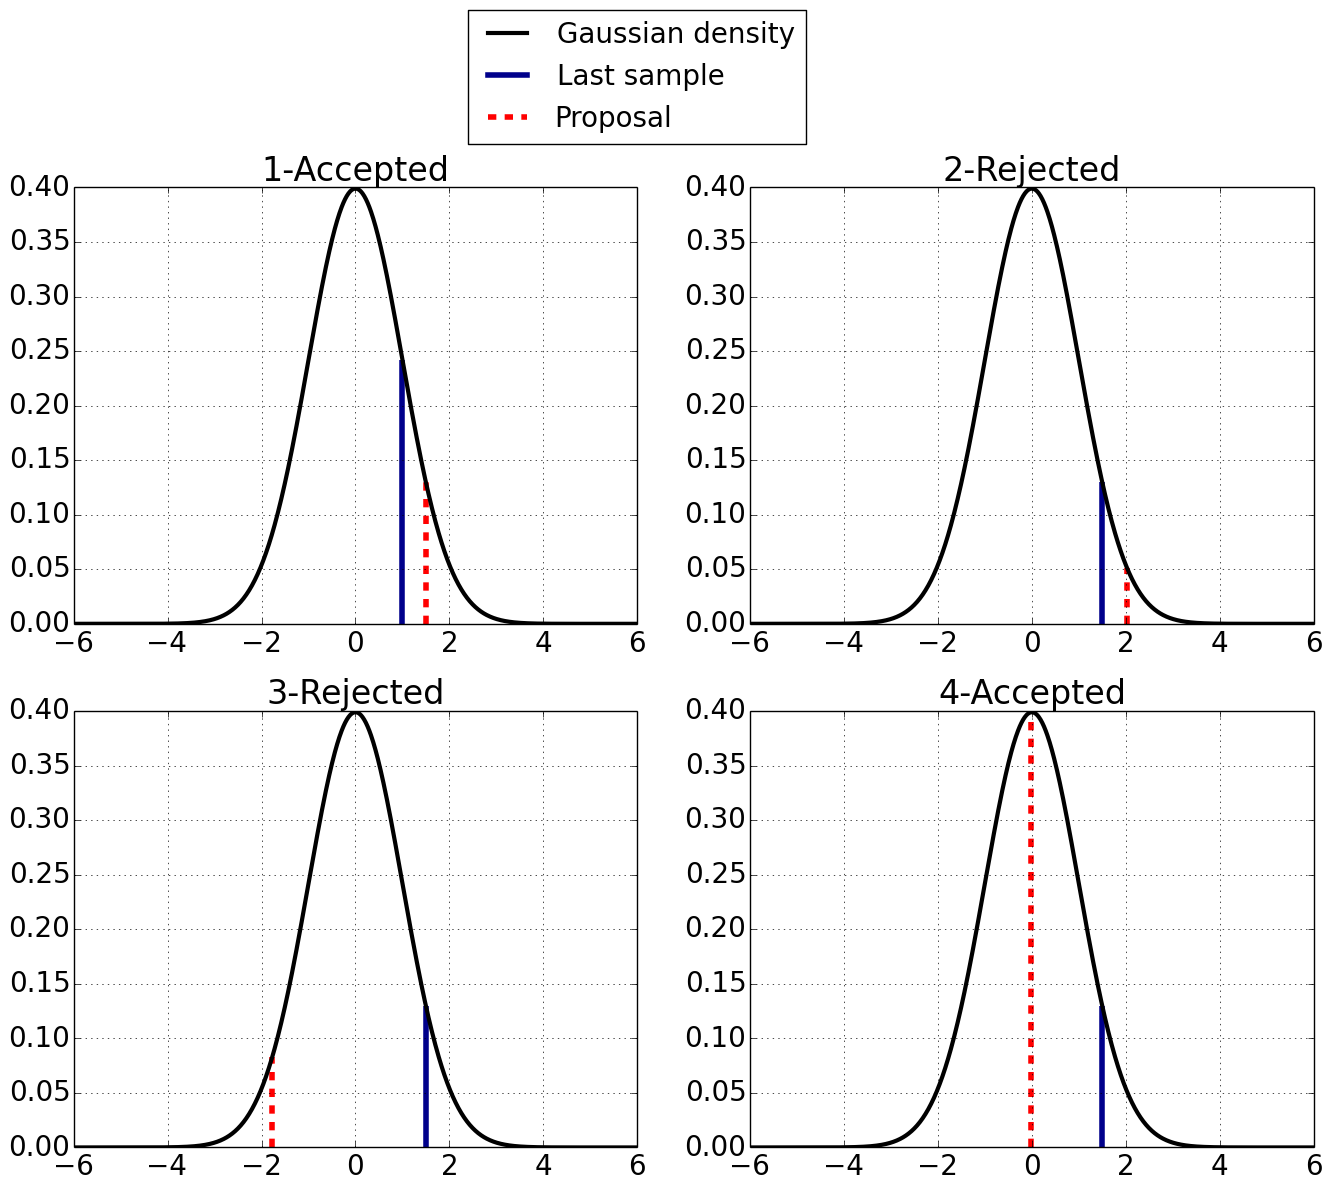
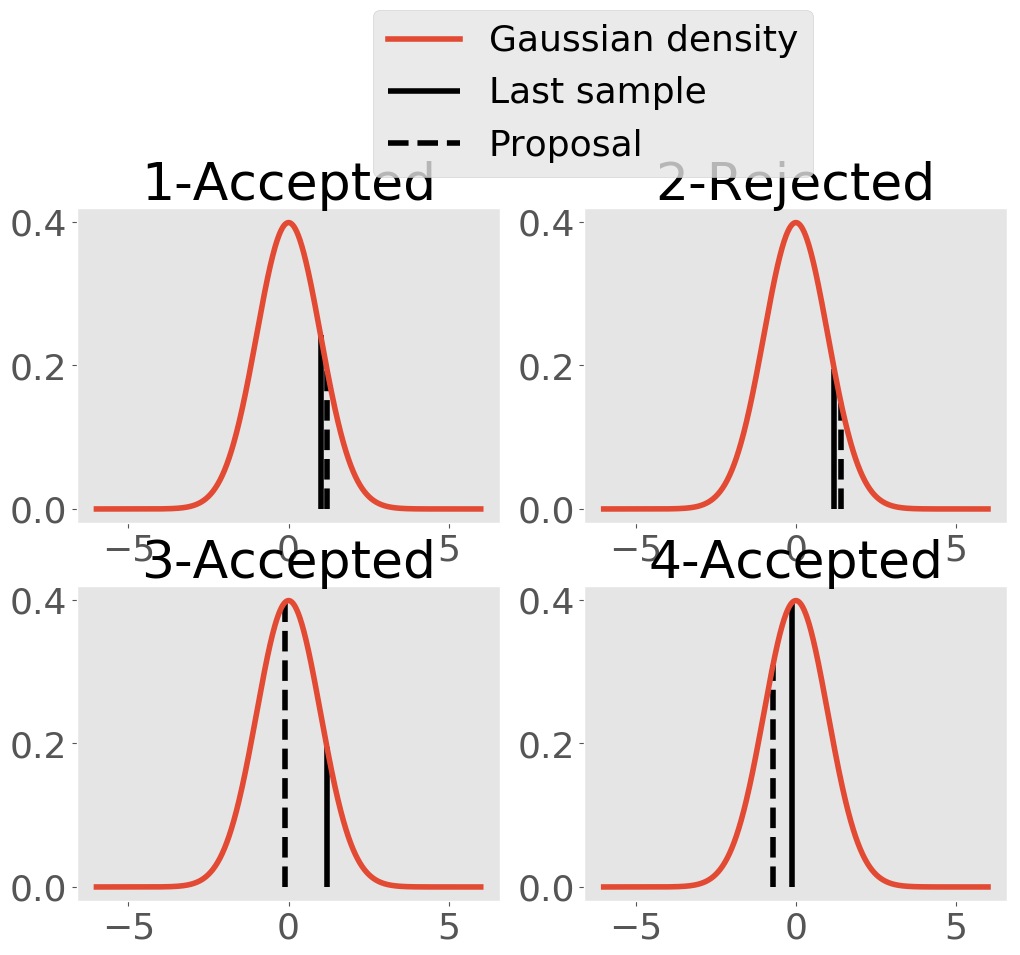
cleaned up example scripts for thesis

diff --git a/mcmcBasic/mixingTimesPropWidth.py b/mcmcBasic/mixingTimesPropWidth.py
@@ -3,12 +3,13 @@
 # DESCRIPTION: set up a toy example for mcmc sampling and approximate with Metropolis sampler
 # AUTHOR: NK
 
+import matplotlib
 import matplotlib.pyplot as plt
 plt.style.use('ggplot')
+
 import numpy as np 
 from scipy.stats import norm
 np.set_printoptions(precision = 1)
-
 plt.rcParams.update({'font.size': 26})
 plt.rcParams['lines.linewidth'] = 4
 plt.rcParams["figure.figsize"] = (12,9)
@@ -19,44 +20,15 @@ np.random.seed(15051994)
 def gaussDens(pt, mean = 0, variance = 1.):
 	return np.exp(-(pt-mean)**2/(2*variance))/(np.sqrt(2*np.pi*variance))
 
-propWidth = 2.
+propWidth = 1.
 numPlots = 4
-numSamp = 20000
-samples = np.zeros(numSamp)
-currSamp = 1.0
+numSamp = 250
+samplesSmall = np.zeros(numSamp)
+currSamp = 0.5
 i = 0
-samples[i] = currSamp
+samplesSmall[i] = currSamp
 
 i = i + 1
-
-plotPts = np.linspace(-6, 6, 1000)
-plotVals = gaussDens(plotPts)
-
-plt.subplots(2,2)
-while i < numPlots + 1:
-	pltIdx = 220 + i
-	plt.subplot(pltIdx)
-	proposal =  currSamp + propWidth * np.random.randn()
-	plt.plot(plotPts, plotVals, label="Gaussian density")
-	plt.vlines(currSamp, 0, gaussDens(currSamp), label = "Last sample")
-	plt.vlines(proposal, 0, gaussDens(proposal), linestyle = "dashed", label ="Proposal")
-	accProb = gaussDens(proposal)/gaussDens(currSamp)
-	ratio = np.random.rand()
-	if accProb < ratio:
-		samples[i] = currSamp
-		plt.title("%i-Rejected"%(i))
-	else:
-		samples[i] = proposal
-		currSamp = proposal
-		plt.title("%i-Accepted"%(i))
-	i = i + 1
-	plt.grid()
-
-lgd = plt.legend(loc=(-0.5, 2.3), borderaxespad=0.)
-plt.savefig("figures/mcmcSamples", bbox_extra_artists=(lgd,), bbox_inches='tight')
-plt.show()
-
-
 
 
 
@@ -65,34 +37,51 @@ while i < numSamp:
 	accProb = gaussDens(proposal)/gaussDens(currSamp)
 	ratio = np.random.rand()
 	if accProb < ratio:
-		samples[i] = currSamp
+		samplesSmall[i] = currSamp
 	else:
-		samples[i] = proposal
+		samplesSmall[i] = proposal
 		currSamp = proposal
 	i = i + 1
 
 
 
 
+propWidth = 1.
+numPlots = 4
+numSamp = 250
+samplesBig = np.zeros(numSamp)
+currSamp = 12.0
+i = 0
+samplesBig[i] = currSamp
+
+i = i + 1
+
+
+
+while i < numSamp:
+	proposal =  currSamp + propWidth * np.random.randn()
+	accProb = gaussDens(proposal)/gaussDens(currSamp)
+	ratio = np.random.rand()
+	if accProb < ratio:
+		samplesBig[i] = currSamp
+	else:
+		samplesBig[i] = proposal
+		currSamp = proposal
+	i = i + 1
 
 
 
 
-
-
-
-
-
-plotPts = np.linspace(-6, 6, 1000)
-plotVals = gaussDens(plotPts)
 plt.figure()
-plt.plot(plotPts, plotVals, label ="Gaussian density")
+plt.plot(samplesSmall, linewidth = 3, label ="Starting at $x_0 = 0.5$")
+plt.plot(samplesBig, linewidth = 3,  label ="Starting at $x_0 = 12.0$")
 plt.grid()
-plt.hist(samples, bins = 50, density = 1, label ="MCMC samples")
+xl = plt.xlabel("Iteration")
+yl = plt.ylabel("Samples")
+plt.ylim((-5,15))
+plt.grid()
 plt.legend()
-plt.grid()
-plt.ylim((0,0.6))
-plt.savefig("figures/histMCMC")
+plt.savefig("figures/burnIn", bbox_extra_artists= (xl, ), bbox_inches ="tight")
 plt.show()
 
 

diff --git a/1dExampleBip/discrMeanMap.py b/1dExampleBip/discrMeanMap.py
@@ -1,0 +1,103 @@
+# NAME: 'discrMeanMap.py'
+#
+# PURPOSE: Visualise discrepancy between conditional mean and MAP in 1D example
+
+# DESCRIPTION: We derive the post. distribution and compute CM and MAP
+#
+# AUTHOR: NK, kraemer(at)ins.uni-bonn.de
+
+from __future__ import division	
+import numpy as np
+import matplotlib.pyplot as plt 
+plt.style.use('ggplot')
+
+import sys
+sys.path.insert(0,'../modules/')
+
+from covFcts import maternCov
+from covMtrcs import buildCovMtrx
+from ptSetFcts import getPtsHalton
+from quadrForm import compQuadQMC
+
+np.random.seed(15051994)
+np.set_printoptions(precision = 1)
+plt.rcParams.update({'font.size': 26})
+plt.rcParams['lines.linewidth'] = 4
+plt.rcParams["figure.figsize"] = (12,9)
+
+def parToObsOperator(pt):
+	return  np.sin(0.1*pt)
+
+trueInput = -2
+noiseStdDev = 0.1
+obsNoise = noiseStdDev * np.random.randn()
+observation = parToObsOperator(trueInput) + obsNoise
+
+
+def evaluatePotential(pt, nOrmConst = 1., data = observation):
+	return np.exp(-1./(2.*noiseStdDev) * (data - parToObsOperator(pt))**2) / nOrmConst
+
+def gaussMixMdl(pt, mean = 2, variance = 0.5):
+	leftModel =  np.exp(-(pt+mean)**2/(2*variance))/(np.sqrt(2*np.pi*variance))
+	rightModel =  np.exp(-(pt-mean)**2/(2*variance))/(np.sqrt(2*np.pi*variance))
+	return leftModel + rightModel
+
+def evaluatePotentialGaussianPrior(pt, nOrmConst = 1., data = observation):
+	return evaluatePotential(pt) * gaussDens(pt)
+
+
+numPtsQmc = 10000
+ptSet = 20 * getPtsHalton(numPtsQmc, 1) - 10
+normConst = compQuadQMC(evaluatePotentialGaussianPrior, ptSet)
+
+
+plotPts = np.linspace(-10,10,500)
+likelihood = evaluatePotential(plotPts, normConst)
+priorVals = gaussDens(plotPts)
+posteriorVals = priorVals * likelihood
+
+
+def postDens(pt):
+	return evaluatePotential(pt, normConst) * gaussDens(pt)
+
+def postDensCM(pt):
+	return pt * evaluatePotential(pt, normConst) * gaussDens(pt)
+
+condMean = compQuadQMC(postDensCM, ptSet)
+mapPts = np.linspace(-10,10,10000)
+mapVals = postDens(mapPts)
+MAP = mapPts[np.argmax(mapVals)]
+
+
+
+
+
+plt.figure()
+plt.plot(plotPts, postVals, label = "Posterior density $\pi^y$")
+plt.plot(plotPts,  priorVals, label = "Prior density $\pi_0$")
+plt.vlines(trueInput, 0, gaussDens(trueInput) * evaluatePotential(trueInput, normConst), linestyle = "dashed")
+plt.xlabel("")
+plt.ylabel("")
+plt.legend()
+plt.grid()
+plt.savefig("figures/discrMeanMap_priorPostDens.png")
+plt.show()
+
+
+plt.figure()
+plt.plot(plotPts, postVals, label = "Posterior density")
+plt.vlines(condMean, 0, gaussDens(condMean) * evaluatePotential(condMean, normConst), linestyle = "dashed")
+plt.vlines(MAP, 0, gaussDens(MAP) * evaluatePotential(MAP, normConst), linestyle = "dashed")
+plt.xlabel("")
+plt.ylabel("")
+plt.legend()
+plt.grid()
+plt.savefig("figures/discrMeanMap_cmAndMap")
+plt.show()
+
+
+
+
+
+
+

diff --git a/mcmcBasic/burnInInitState.py b/mcmcBasic/burnInInitState.py
@@ -4,13 +4,15 @@
 # AUTHOR: NK
 
 import matplotlib
-import numpy as np 
 import matplotlib.pyplot as plt
 plt.style.use('ggplot')
+
+import numpy as np 
 from scipy.stats import norm
 np.set_printoptions(precision = 1)
-#plt.rcParams.update({'font.size': 20})
-#plt.rcParams.update({'legend.fontsize': 20})
+plt.rcParams.update({'font.size': 26})
+plt.rcParams['lines.linewidth'] = 4
+plt.rcParams["figure.figsize"] = (12,9)
 
 np.random.seed(15051994)
 
@@ -71,12 +73,13 @@ while i < numSamp:
 
 
 plt.figure()
-plt.plot(samplesSmall, linewidth = 3, color = "darkblue", label ="Starting at x = 0.5", alpha = 0.9)
-plt.plot(samplesBig, linewidth = 3, color = "red", label ="Starting at x = 12.0", alpha = 0.9)
+plt.plot(samplesSmall, linewidth = 3, label ="Starting at $x_0 = 0.5$")
+plt.plot(samplesBig, linewidth = 3,  label ="Starting at $x_0 = 12.0$")
 plt.grid()
 xl = plt.xlabel("Iteration")
 yl = plt.ylabel("Samples")
 plt.ylim((-5,15))
+plt.grid()
 plt.legend()
 plt.savefig("figures/burnIn", bbox_extra_artists= (xl, ), bbox_inches ="tight")
 plt.show()

diff --git a/1dExampleBip/plotPostPriorDist.py b/1dExampleBip/plotPostPriorDist.py
@@ -8,7 +8,8 @@
 
 from __future__ import division	
 import numpy as np
-import matplotlib.pyplot as plt 
+import matplotlib.pyplot as plt
+plt.style.use('ggplot')
 
 import sys
 sys.path.insert(0,'../modules/')
@@ -20,8 +21,9 @@ from quadrForm import compQuadQMC
 
 np.random.seed(15051994)
 np.set_printoptions(precision = 1)
-plt.rcParams.update({'font.size': 20})
-plt.rcParams.update({'legend.fontsize': 20})
+plt.rcParams.update({'font.size': 26})
+plt.rcParams['lines.linewidth'] = 4
+plt.rcParams["figure.figsize"] = (12,9)
 
 def parToObsOperator(pt):
 	return np.sin(pt)

diff --git a/mcmcBasic/histPlot.py b/mcmcBasic/histPlot.py
@@ -3,6 +3,7 @@
 # DESCRIPTION: set up a toy example for mcmc sampling and approximate with Metropolis sampler
 # AUTHOR: NK
 
+import matplotlib
 import matplotlib.pyplot as plt
 plt.style.use('ggplot')
 import numpy as np 

diff --git a/mcmcBasic/rejectSampling.py b/mcmcBasic/rejectSampling.py
@@ -3,6 +3,7 @@
 # DESCRIPTION: set up a toy example for mcmc sampling and approximate with Metropolis sampler
 # AUTHOR: NK
 
+import matplotlib
 import matplotlib.pyplot as plt
 plt.style.use('ggplot')
 import numpy as np 
